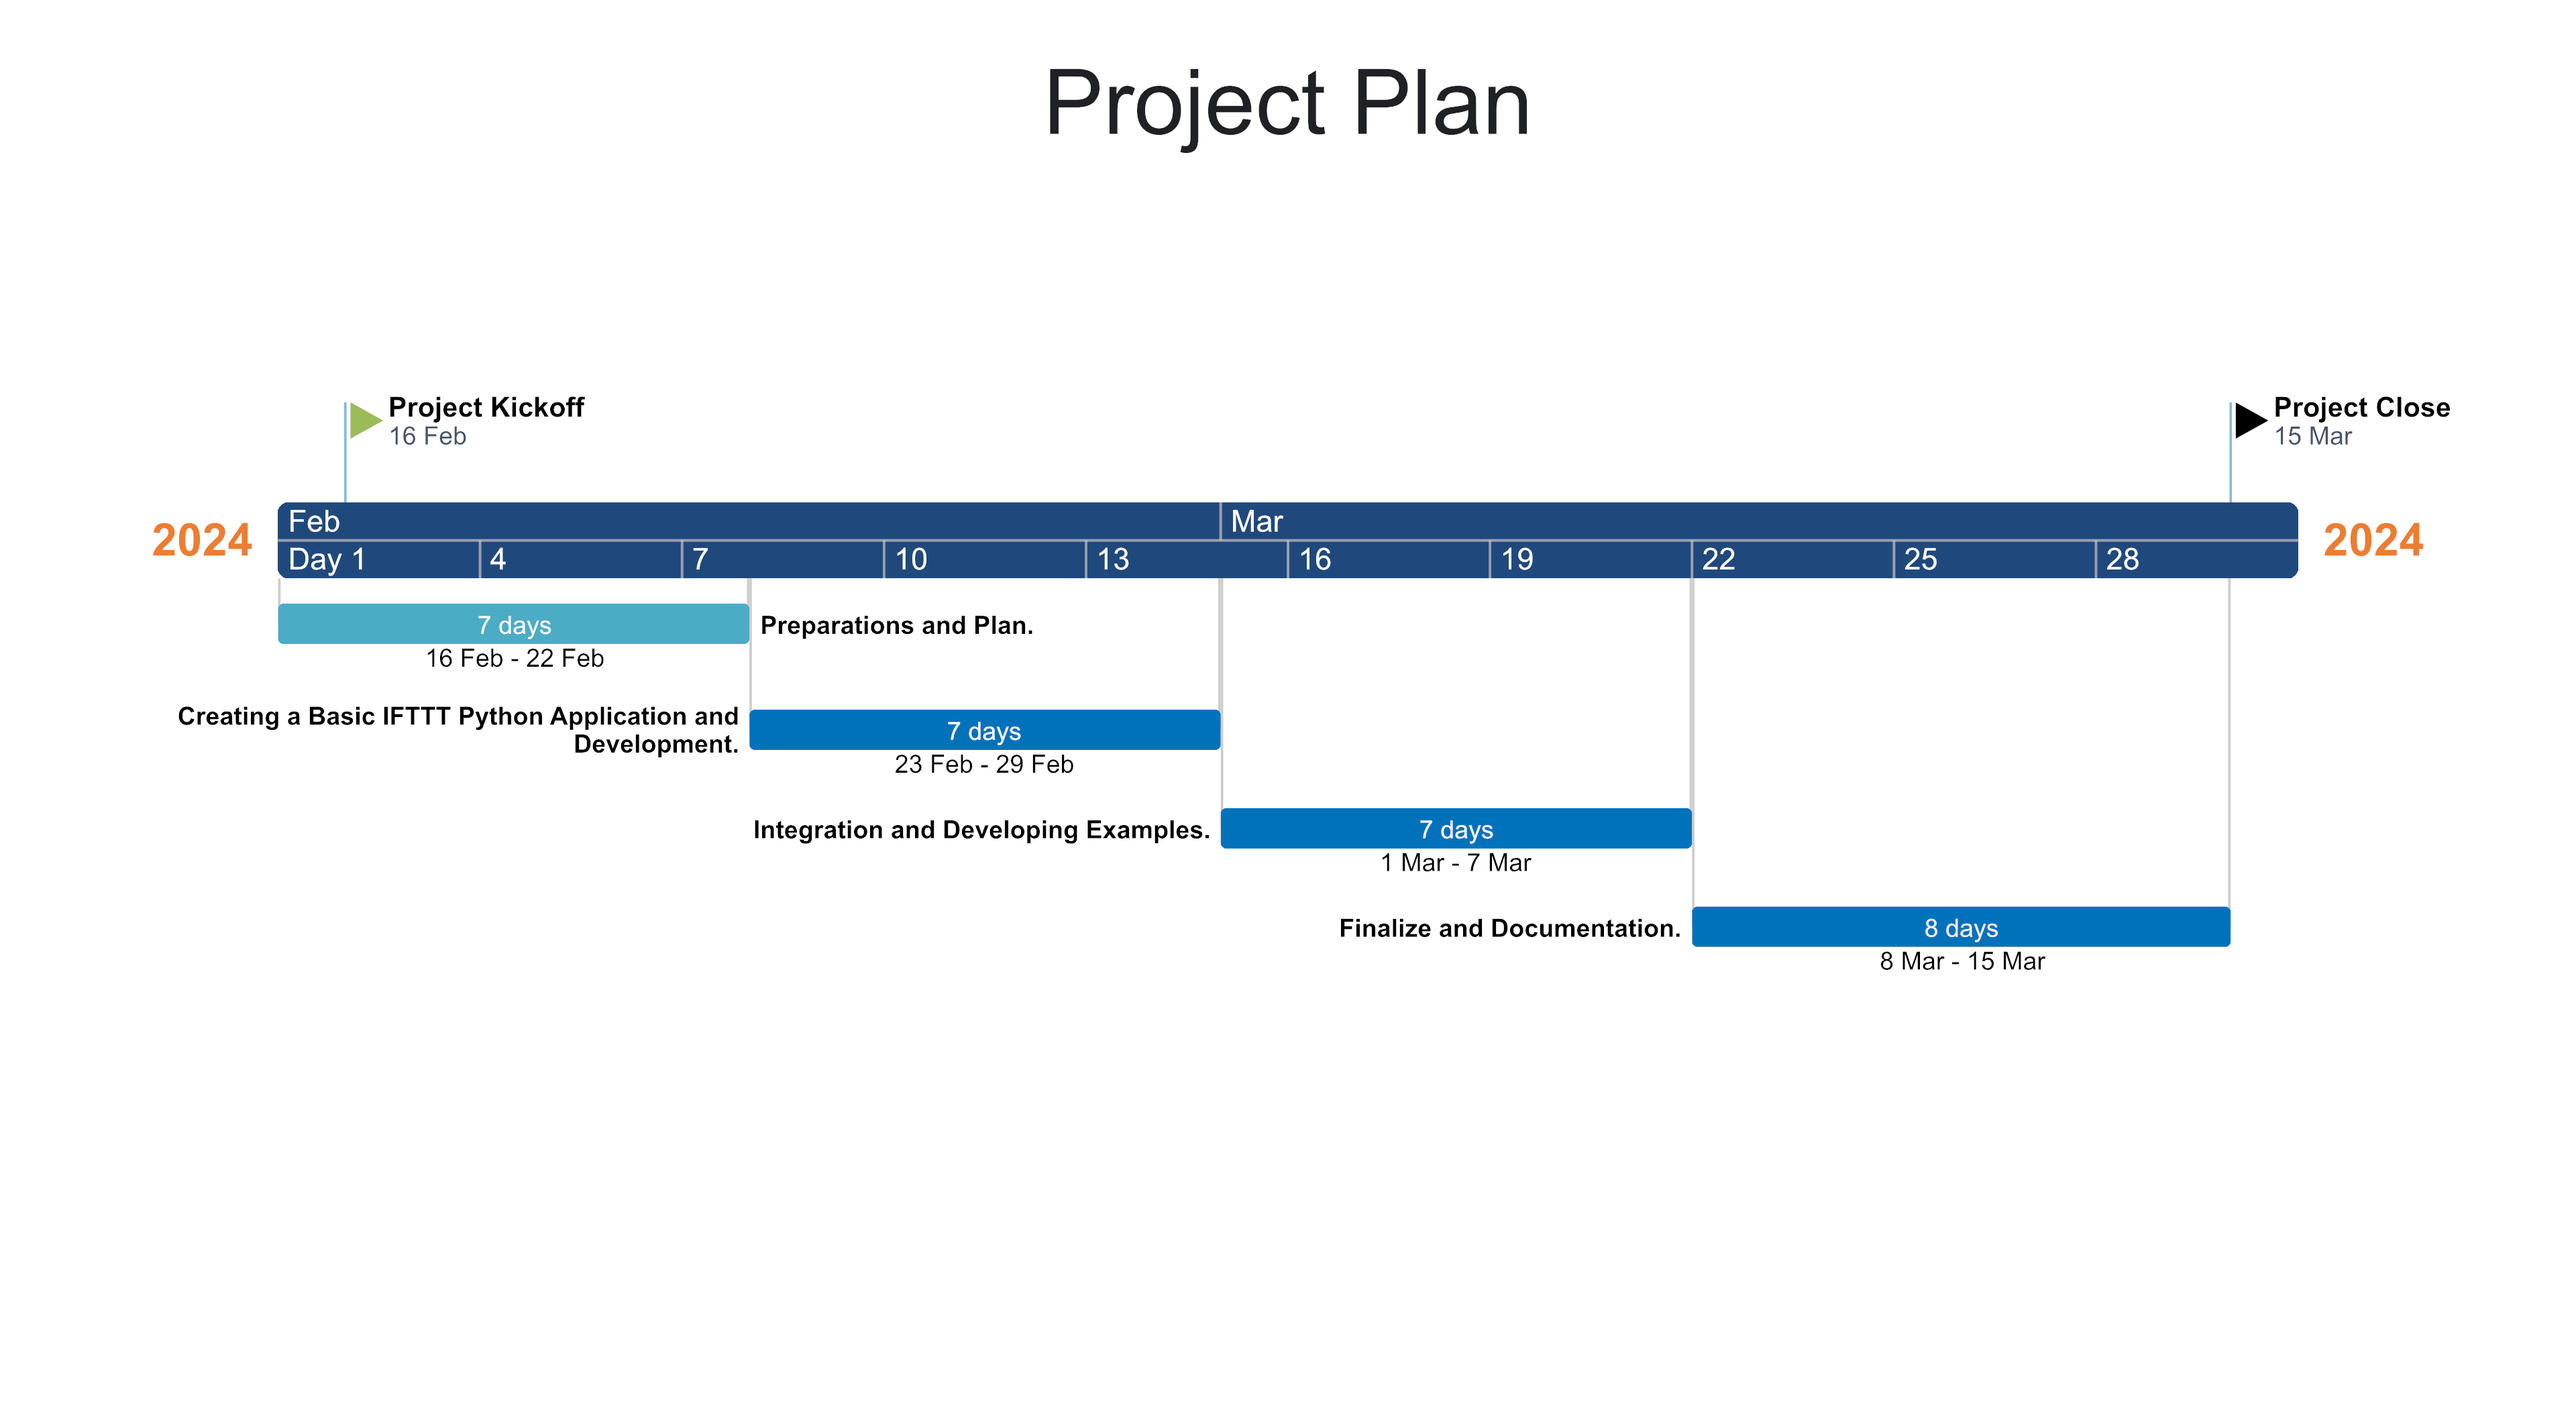
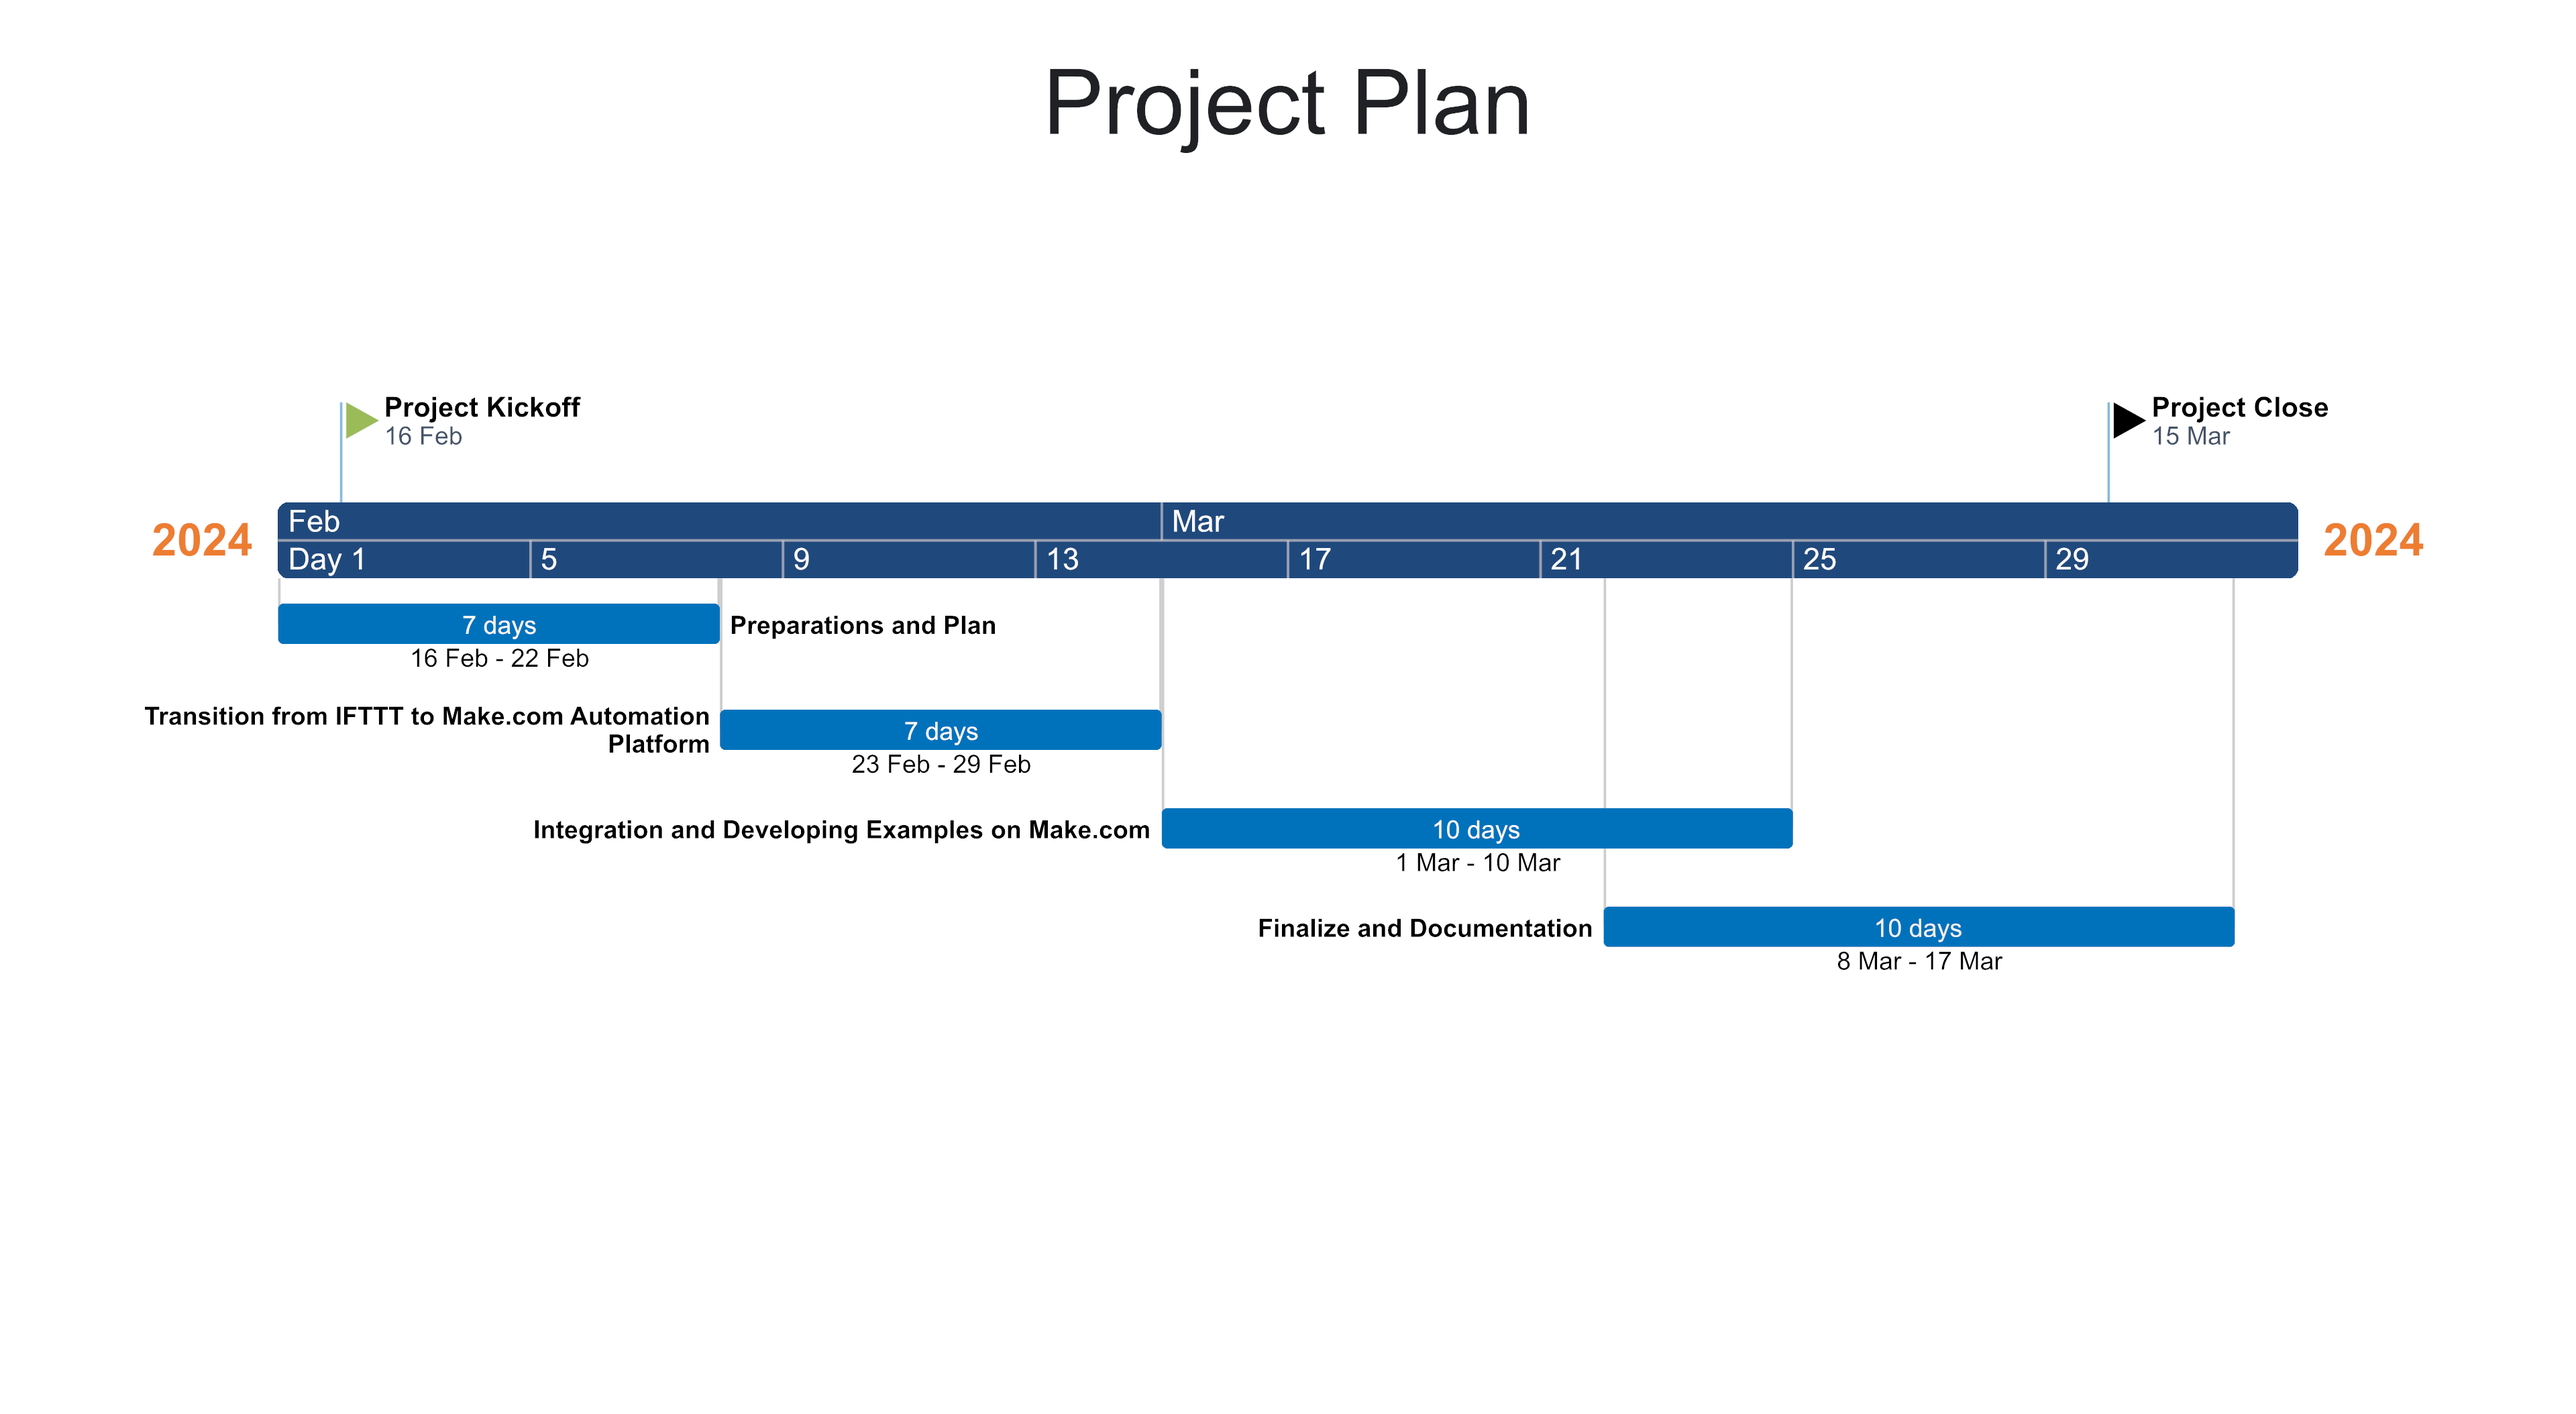
docs: update project plan for Make.com

diff --git a/README.md b/README.md
@@ -1,15 +1,15 @@
 # Embedded-MicroPython
 - [Embedded-MicroPython](#embedded-micropython)
-  - [Project Plan](#project-plan)
-    - [Week 1 - Preperations and Plan](#week-1---preperations-and-plan)
-    - [Week 2 - Creating a Basic IFTTT Python Application and Development](#week-2---creating-a-basic-ifttt-python-application-and-development)
-    - [Week 3 - Integration and Developing Examples](#week-3---integration-and-developing-examples)
-    - [Week 4 - Finalize and Documentation](#week-4---finalize-and-documentation)
+- [Project Plan](#project-plan)
+  - [Week 1 - Preperations and Plan](#week-1---preperations-and-plan)
+  - [Week 2 - Transition from IFTTT to Make.com Automation Platform](#week-2---transition-from-ifttt-to-makecom-automation-platform)
+  - [Week 3 - Integration and Developing Examples on Make.com](#week-3---integration-and-developing-examples-on-makecom)
+  - [Week 4 - Finalize and Documentation](#week-4---finalize-and-documentation)
   - [Gantt Chart](#gantt-chart)
 
-## Project Plan 
+# Project Plan 
 
-### Week 1 - Preperations and Plan
+## Week 1 - Preperations and Plan
 
 - [x] Conduct a thorough research on the **IFTTT** platform.
 - [x] Set up the necessary environments and tools for **Sixfab Raspberry Pi Pico W**.
@@ -18,24 +18,25 @@
 - [x] Research sections such as **Conventional Commit, PEP-8 Style, Docstring, Gitflow.**
 - [x] To examine the existing codes in the application and sample code writing and to learn the **state manager** structure.
 
-### Week 2 - Creating a Basic IFTTT Python Application and Development 
+## Week 2 - Transition from IFTTT to Make.com Automation Platform
 
-- [ ] Writing a sample code to create a basic Python application using IFTTT's Webhook service.
-- [ ] Creating endpoints that will listen and react to requests from IFTTT.
-- [ ] Define and code basic functions and methods that can work with IFTTT.
+- [x] Realisation that the Webhook service on the IFTTT platform is paid.
+- [x] Finding Make.com (formerly integromat) automation platform that provides free Webhook service. 
+- [x] Developing a demo project for automation with POSTMAN via Make.com.
 
-### Week 3 - Integration and Developing Examples
+## Week 3 - Integration and Developing Examples on Make.com
 
-- [ ] Writing advanced code to integrate the Sixfab Raspberry Pi Pico W with IFTTT.
-- [ ] Sending direct commands to test the integration of IFTTT applets and Python code.
-- [ ] Auditing the workflows created as a result of IFTTT triggering actions and checking whether they are working correctly.
+- [ ] Writing advanced code to integrate the Sixfab Raspberry Pi Pico W with Make.com.
+- [ ] Sending direct commands to test the integration of Make.com applets and Python code.
+- [ ] Auditing the workflows created as a result of Make.com triggering actions and checking whether they are working correctly.
 
-### Week 4 - Finalize and Documentation
+## Week 4 - Finalize and Documentation
 
 - [ ] Testing the final stages of the integration processes and making sure that the application is stable.
 - [ ] Writing the project documentation, including detailed instructions on how to use the tools and example scenarios.
 - [ ] To prepare a guide on how the project and code samples are created and how the integration is done.
 - [ ] Review the final report and documentation and publish to Github. 
+
 
 ## Gantt Chart 
 

diff --git a/project_plan.md b/project_plan.md
@@ -9,17 +9,17 @@
 - [x] Research sections such as **Conventional Commit, PEP-8 Style, Docstring, Gitflow.**
 - [x] To examine the existing codes in the application and sample code writing and to learn the **state manager** structure.
 
-## Week 2 - Creating a Basic IFTTT Python Application and Development 
+## Week 2 - Transition from IFTTT to Make.com Automation Platform
 
-- [ ] Writing a sample code to create a basic Python application using IFTTT's Webhook service.
-- [ ] Creating endpoints that will listen and react to requests from IFTTT.
-- [ ] Define and code basic functions and methods that can work with IFTTT.
+- [x] Realisation that the Webhook service on the IFTTT platform is paid.
+- [x] Finding Make.com (formerly integromat) automation platform that provides free Webhook service. 
+- [x] Developing a demo project for automation with POSTMAN via Make.com.
 
-## Week 3 - Integration and Developing Examples
+## Week 3 - Integration and Developing Examples on Make.com
 
-- [ ] Writing advanced code to integrate the Sixfab Raspberry Pi Pico W with IFTTT.
-- [ ] Sending direct commands to test the integration of IFTTT applets and Python code.
-- [ ] Auditing the workflows created as a result of IFTTT triggering actions and checking whether they are working correctly.
+- [ ] Writing advanced code to integrate the Sixfab Raspberry Pi Pico W with Make.com.
+- [ ] Sending direct commands to test the integration of Make.com applets and Python code.
+- [ ] Auditing the workflows created as a result of Make.com triggering actions and checking whether they are working correctly.
 
 ## Week 4 - Finalize and Documentation
 
